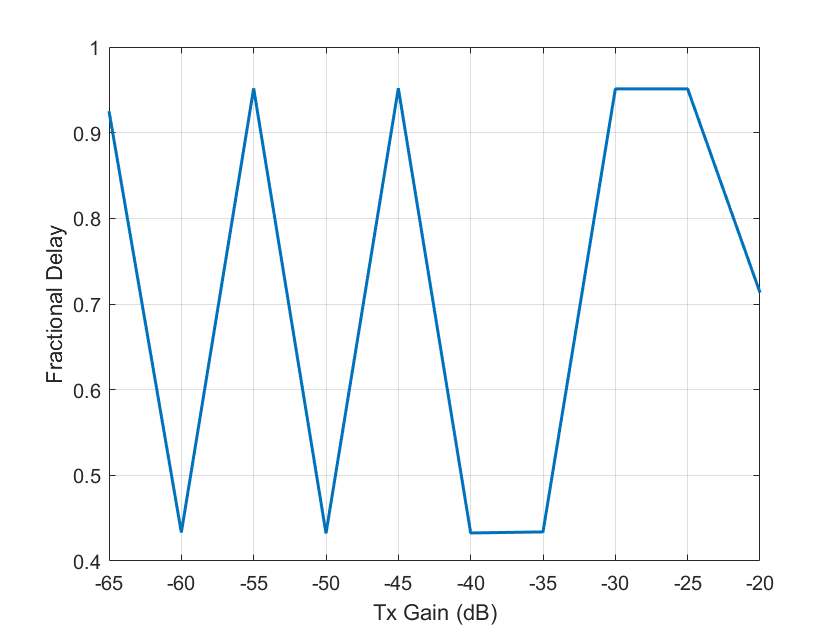
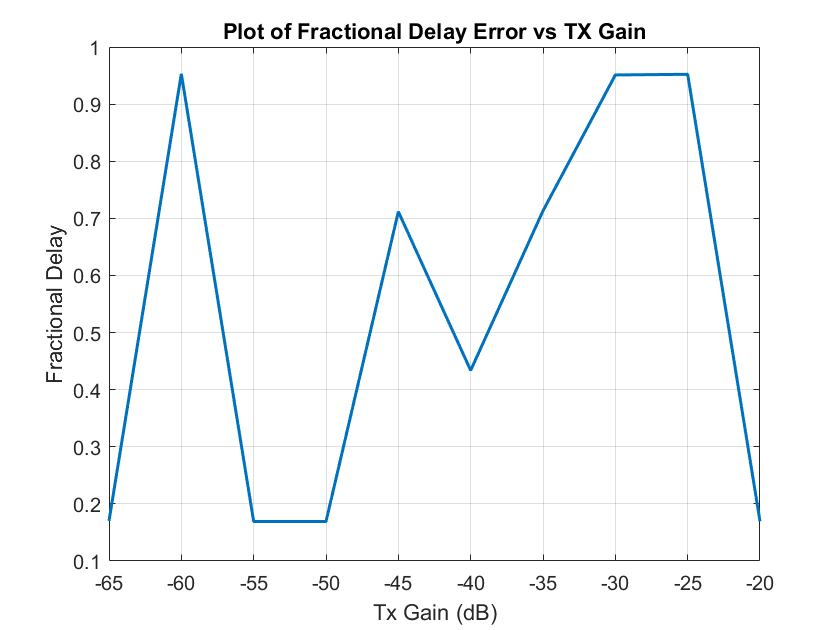
Getting ready to review conclusion

diff --git a/5/lab_report.tex b/5/lab_report.tex
@@ -587,7 +587,7 @@ In this section, we perform timing compensation with the PlutoSDR. We start by t
 	\label{fig::pluto_constellations_dbpsk}
 \end{figure}
 
-\noindent Compared to Figure \ref{fig::pluto_constellations_no_comp}, we see that the differential demodulation resolve the phase offsets. Because our frequency offsets are small, the differential demodulation effectively handles them as well. One additional problem, we observe on hardware but not in simulation is the amplitude of our signal being less than 1. For phase demodulation, this has no impact on the BER. However, it can significantly distort our EVM metric. To compensate for this, we scale our receive data, so it has an average power of 1. Our constellations after performing this scaling are shown in Figure \ref{fig::pluto_constellations_dbpsk_amp_comp}.
+\noindent Compared to Figure \ref{fig::pluto_constellations_no_comp}, we see that the differential demodulation resolve the phase offsets. Because our frequency offsets are small, the differential demodulation effectively handles them as well. One additional problem, we observe in hardware but not in simulation is the amplitude of our signal being less than 1. For phase demodulation, this has no impact on the BER. However, it can significantly distort our EVM metric. To compensate for this, we scale our receive data, so it has an average power of 1. Our constellations after performing this scaling are shown in Figure \ref{fig::pluto_constellations_dbpsk_amp_comp}.
 
 \begin{figure}[H]
 	\centerline{\fbox{\includegraphics[width=0.7\textwidth]{pluto_constellations_dbpsk_amp_comp.png}}}

diff --git a/5/code/plutoTimingSync.m b/5/code/plutoTimingSync.m
@@ -112,18 +112,21 @@ figure(1);
 clf;
 plot(txGain, initEvm_dB, 'LineWidth',1.5);
 grid on;
+title('Plot of EVM vs TX Gain before Timing Compensation')
 xlabel('Tx Gain (dB)');
 ylabel('EVM (dB)')
 figure(2);
 clf;
 plot(txGain, corrEvm_dB, 'LineWidth',1.5);
 grid on;
+title('Plot of EVM vs TX Gain after Timing Compensation')
 xlabel('Tx Gain (dB)');
 ylabel('EVM (dB)')
 figure(3);
 clf;
 plot(txGain, timingErr, 'LineWidth',1.5);
 grid on;
+title('Plot of Fractional Delay Error vs TX Gain')
 xlabel('Tx Gain (dB)');
 ylabel('Fractional Delay');
 %% Reset path
